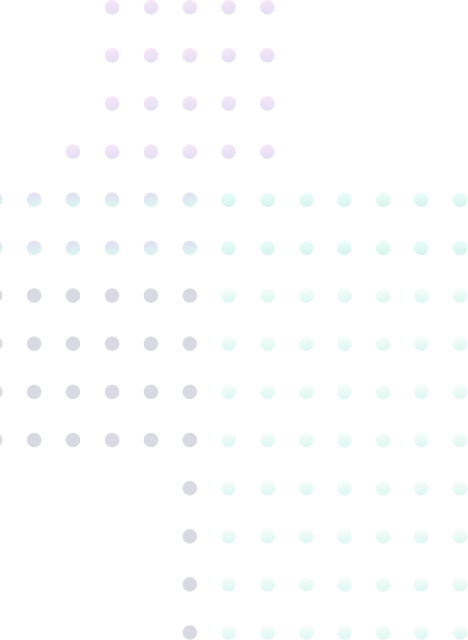
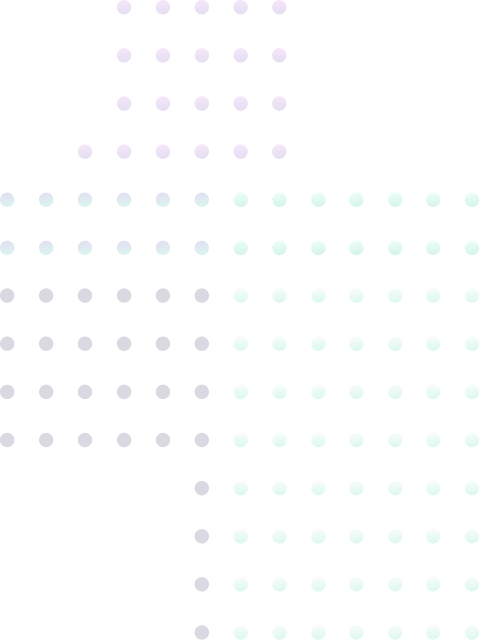
fix images toh

diff --git a/news.html b/news.html
@@ -76,7 +76,8 @@
                 <div class="container">
                     <div class="news">
                         <div class="new">
-                            <div class="newPicture" style="background-image: url(img/pic-media.jpg)"><a href="#"></a></div>
+                            <div class="newPicture" style="background-image: url(img/pic-media.jpg)"><a href="#"></a>
+                            </div>
                             <div class="newText">
                                 <a href="#">Какое-то название новости
                                     в одну, а может быть даже
@@ -86,7 +87,8 @@
                             </div>
                         </div>
                         <div class="new">
-                            <div class="newPicture" style="background-image: url(img/pic-media.jpg)"><a href="#"></a></div>
+                            <div class="newPicture" style="background-image: url(img/pic-media.jpg)"><a href="#"></a>
+                            </div>
                             <div class="newText">
                                 <a href="#">Какое-то название новости
                                     в одну, а может быть даже
@@ -96,7 +98,8 @@
                             </div>
                         </div>
                         <div class="new">
-                            <div class="newPicture" style="background-image: url(img/pic-media.jpg)"><a href="#"></a></div>
+                            <div class="newPicture" style="background-image: url(img/pic-media.jpg)"><a href="#"></a>
+                            </div>
                             <div class="newText">
                                 <a href="#">Какое-то название новости
                                     в одну, а может быть даже
@@ -106,7 +109,8 @@
                             </div>
                         </div>
                         <div class="new">
-                            <div class="newPicture" style="background-image: url(img/pic-media.jpg)"><a href="#"></a></div>
+                            <div class="newPicture" style="background-image: url(img/pic-media.jpg)"><a href="#"></a>
+                            </div>
                             <div class="newText">
                                 <a href="#">Какое-то название новости
                                     в одну, а может быть даже
@@ -116,7 +120,8 @@
                             </div>
                         </div>
                         <div class="new">
-                            <div class="newPicture" style="background-image: url(img/pic-media.jpg)"><a href="#"></a></div>
+                            <div class="newPicture" style="background-image: url(img/pic-media.jpg)"><a href="#"></a>
+                            </div>
                             <div class="newText">
                                 <a href="#">Какое-то название новости
                                     в одну, а может быть даже
@@ -126,7 +131,8 @@
                             </div>
                         </div>
                         <div class="new">
-                            <div class="newPicture" style="background-image: url(img/pic-media.jpg)"><a href="#"></a></div>
+                            <div class="newPicture" style="background-image: url(img/pic-media.jpg)"><a href="#"></a>
+                            </div>
                             <div class="newText">
                                 <a href="#">Какое-то название новости
                                     в одну, а может быть даже

diff --git a/scss/desktop.scss b/scss/desktop.scss
@@ -248,9 +248,9 @@
     .blockTitle {
         @include before {
             background-image: url("../img/back-toh-about.png");
-            width: 445px;
+            width: 480px;
             height: 640px;
-            background-position: -23px center;
+            background-position: center;
         }
     }
 
@@ -349,12 +349,11 @@
     .blockTitle {
         @include before {
             background-image: url("../img/back-toh-media.png");
-            width: 254px;
-            height: 440px;
-            right: calc(100% + 17px);
-            top: 20px;
-            background-position: -249px 0;
-            background-size: 221%;
+            width: 510px;
+            height: 630px;
+            right: calc(100% + 5px);
+            top: -215px;
+            background-position: center;
         }
     }
     .desc {

diff --git a/css/style.css b/css/style.css
@@ -1057,9 +1057,9 @@ button {
   -o-transition: all 0.3s;
   transition: all 0.3s;
   background-image: url("../img/back-toh-about.png");
-  width: 445px;
+  width: 480px;
   height: 640px;
-  background-position: -23px center;
+  background-position: center;
 }
 .aboutMain .aboutList {
   display: flex;
@@ -1180,12 +1180,11 @@ button {
   -o-transition: all 0.3s;
   transition: all 0.3s;
   background-image: url("../img/back-toh-media.png");
-  width: 254px;
-  height: 440px;
-  right: calc(100% + 17px);
-  top: 20px;
-  background-position: -249px 0;
-  background-size: 221%;
+  width: 510px;
+  height: 630px;
+  right: calc(100% + 5px);
+  top: -215px;
+  background-position: center;
 }
 .mediaMain .desc {
   font-weight: 400;
